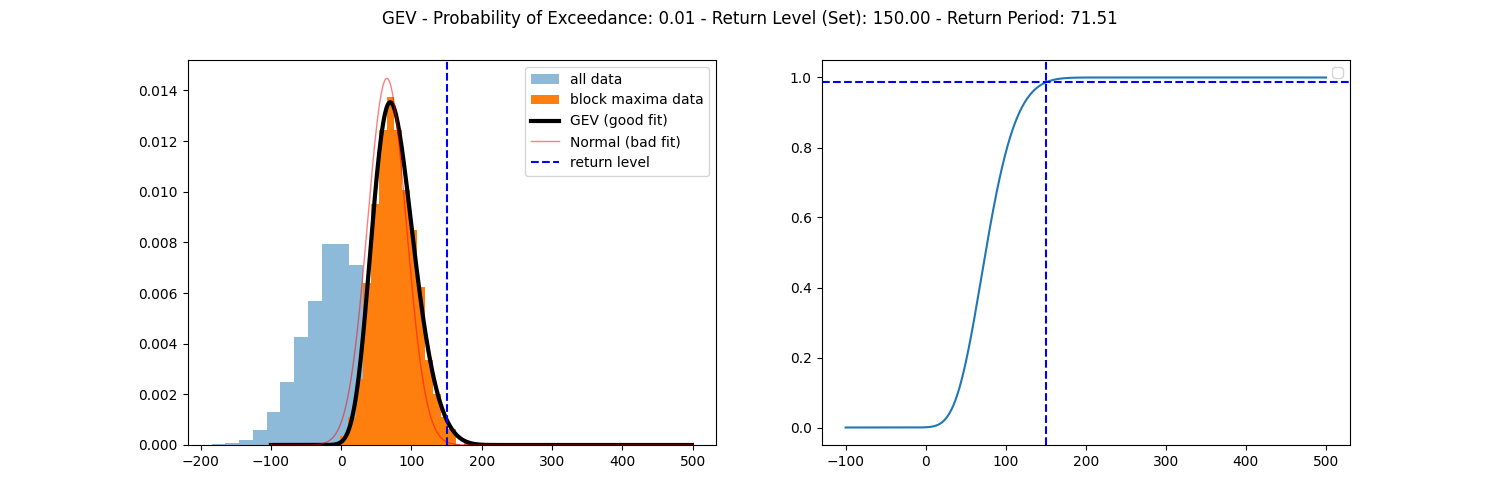
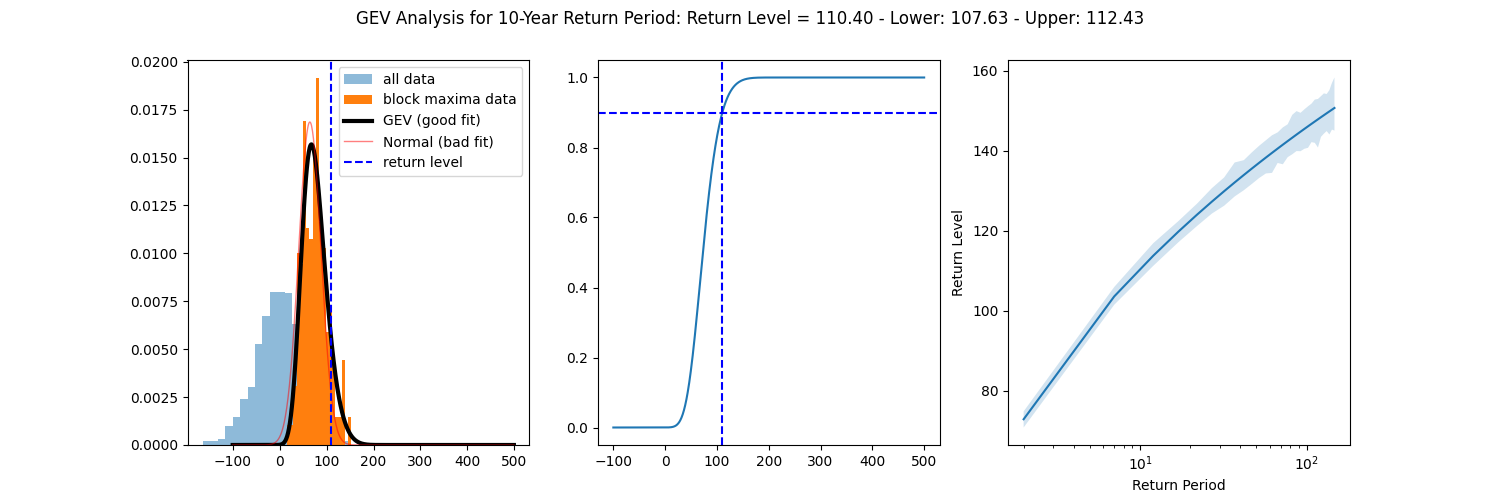
update GEV class with bootstrapping MLE params for return_level-return_period plot

diff --git a/stacky-tall/risk/extreme.py b/stacky-tall/risk/extreme.py
@@ -3,9 +3,12 @@ import pandas as pd
 from scipy import stats
 from scipy.stats import norm
 from scipy.stats import genextreme as gev
+# joblib is used for parallel processing
+from joblib import Parallel, delayed
 
 class GEVAnalyzer:
     "Extreme Value Theory Analyzer"
+
     def __init__(self, data):
         assert isinstance(data, pd.Series), 'Data must be a pandas Series'
         self.data = data
@@ -14,22 +17,6 @@ class GEVAnalyzer:
         " Compute block maxima"
         self.block_maxima = self.data.rolling(window=period_window).max().dropna()
         return self.block_maxima
-
-    def maximum_likelihood_estimation(self):
-        " Fit GEV distribution to data"
-        shape, loc, scale = gev.fit(self.block_maxima.values, 0)
-        return shape, loc, scale
-    
-    def cdf_GEV(self, value, shape, loc, scale):
-        " Calculate probability for given value"
-        probability = gev.cdf(value, shape, loc, scale)
-        return probability
-    
-    def _estimate_return_level(self, probability, loc, scale, shape):
-        "Estimate return level for given probability"
-        shape, loc, scale = self.maximum_likelihood_estimation()
-        return_level = gev.ppf(probability, shape, loc, scale)
-        return return_level
     
     def get_empirical_return_period(self):
         """
@@ -47,24 +34,62 @@ class GEVAnalyzer:
         df["period"] = 1 / df["exceedance"]
         return df
 
-    def get_return_level(self, return_period):
+    def maximum_likelihood_estimation(self):
+        " Fit GEV distribution to data"
+        shape, loc, scale = gev.fit(self.block_maxima.values, 0)
+        return shape, loc, scale
+    
+    def cdf_GEV(self, value, shape, loc, scale):
+        " Calculate probability for given value"
+        probability = gev.cdf(value, shape, loc, scale)
+        return probability
+    
+    def _bootstrap_samples(self, n_samples):
+        "Resample with replacement"
+        n = self.block_maxima.size
+        list_of_samples = []
+        for i in range(n_samples):
+            sample = np.random.choice(self.block_maxima, n)
+            list_of_samples.append(sample)
+        return list_of_samples
+    
+    def _estimate_return_level(self, probability, loc, scale, shape):
+        "Estimate return level for given probability"
+        return_level = gev.ppf(probability, shape, loc, scale)
+        return return_level
+    
+    def _bootstrap_params(self, n_samples=100):
+        "Estimate parameters for bootstrap samples"
+        bootstrap_params = Parallel(n_jobs=-1)(delayed(gev.fit)(sample, 0) for sample in self._bootstrap_samples(n_samples))
+        return bootstrap_params
+    
+    def get_return_level(self, return_period, with_confidence=False):
         "Estimate return level for given return period"
         probability = 1 - 1/return_period
-        return_level = self._estimate_return_level(probability)
+        shape, loc, scale = self.maximum_likelihood_estimation()
+        return_level = self._estimate_return_level(probability, loc, scale, shape)
+        if with_confidence:
+            bootstrap_return_levels = [ self._estimate_return_level(probability, loc, scale, shape) for shape, loc, scale in self._bootstrap_params()]
+            lower, upper = np.percentile(bootstrap_return_levels, [2.5, 97.5])
+            return return_level, lower, upper
         return return_level
 
-    def get_return_period(self, level_value):
+    def get_return_period(self, return_level, with_confidence=False):
         "Estimate return period for given return level"
         shape, loc, scale = self.maximum_likelihood_estimation()
-        probability = self.cdf_GEV(level_value, shape, loc, scale)
-        return_period = 1/(1-probability)
+        return_period = 1/(1-self.cdf_GEV(return_level, shape, loc, scale))
+        if with_confidence:
+            bootstrap_return_periods = [1/(1-self.cdf_GEV(return_level, shape, loc, scale)) for shape, loc, scale in self._bootstrap_params()]
+            lower, upper = np.percentile(bootstrap_return_periods, [2.5, 97.5])
+            return return_period, lower, upper
         return return_period
-    
+
+
+
 if __name__ == '__main__':
 
     # Generate some random data
-    data = np.random.normal(0, 50, 10000)
-    data = pd.Series(data)
+    data = pd.Series(np.random.normal(0, 50, 1000))
 
     # Initialize GEVAnalyzer
     evt = GEVAnalyzer(data)
@@ -76,33 +101,33 @@ if __name__ == '__main__':
     shape, loc, scale = evt.maximum_likelihood_estimation()
 
     # Set return period
-    value = 150
+    set_return_period = 10
 
-    # Calculate probability
-    probability = evt.cdf_GEV(value, shape, loc, scale)
+    # Probability 
+    probability = 1 - 1/set_return_period
 
-    # Calculate return level
-    return_level = evt._estimate_return_level(probability, loc, scale, shape)
+    # Get return level with confidence interval
+    return_level, lower_return_level, upper_return_level = evt.get_return_level(set_return_period, with_confidence=True)
 
-    # Calculate return period
-    return_period = evt.get_return_period(return_level)
+    # Get return period with confidence interval
+    return_period, lower_return_period, upper_return_period = evt.get_return_period(return_level, with_confidence=True)
 
-    print('return_period', return_period)
-    print('return_level', return_level)
-    print('probability of exceedance', 1 - probability)
-    print('probability', probability)
+    print(f" With {return_period}-Year Return Period:")
+    print(f"Return Level: {return_level:.2f} - Lower: {lower_return_level:.2f} - Upper: {upper_return_level:.2f}")
+
 
     import matplotlib.pyplot as plt
     # subplots horizontal
-    fig, ax = plt.subplots(1, 2, figsize=(15, 5))
-    fig.suptitle(f'GEV - Probability of Exceedance: {1 - probability:.2f} - Return Level (Set): {return_level:.2f} - Return Period: {return_period:.2f}')
+    fig, ax = plt.subplots(1, 3, figsize=(15, 5))
+    fig.suptitle(f'GEV Analysis for {set_return_period}-Year Return Period: Return Level = {return_level:.2f} - Lower: {lower_return_level:.2f} - Upper: {upper_return_level:.2f}')
 
+    # plot pdf
     ax[0].hist(data, bins=20, density=True, label='all data', alpha=0.5)
     ax[0].hist(block_maxima, bins=20, density=True, label='block maxima data')
     x_r80 = np.arange(-100, 500)
     ax[0].plot(x_r80, gev.pdf(x_r80, shape, loc=loc, scale=scale), "k", lw=3, label='GEV (good fit)')
     ax[0].plot(x_r80, norm.pdf(x_r80, loc=loc, scale=scale), "r", lw=1, label='Normal (bad fit)', alpha=0.5)
-    ax[0].axvline(value, color='b', label='return level', linestyle='--')
+    ax[0].axvline(return_level, color='b', label='return level', linestyle='--')
     ax[0].legend()
 
     # plot cdf
@@ -110,9 +135,19 @@ if __name__ == '__main__':
     y = gev.cdf(x, shape, loc=loc, scale=scale)
     ax[1].plot(x, y)
     ax[1].axhline(probability, color='b', linestyle='--')
-    ax[1].axvline(value, color='b', linestyle='--')
-    ax[1].legend()
-    # save plot
+    ax[1].axvline(return_level, color='b', linestyle='--')
+
+    # plot return period vs return level
+    return_periods = np.arange(2, 150, 5)
+    return_levels, lower_return_levels, upper_return_levels = zip(*[evt.get_return_level(rp, with_confidence=True) for rp in return_periods])
+    ax[2].plot(return_periods, return_levels)
+    ax[2].fill_between(return_periods, lower_return_levels, upper_return_levels, alpha=0.2)
+    ax[2].set_xlabel("Return Period")
+    ax[2].set_ylabel("Return Level")
+    ax[2].set_xscale("log")
+    
     plt.savefig('imgs/gev.png')
     plt.show()
+
+
 
